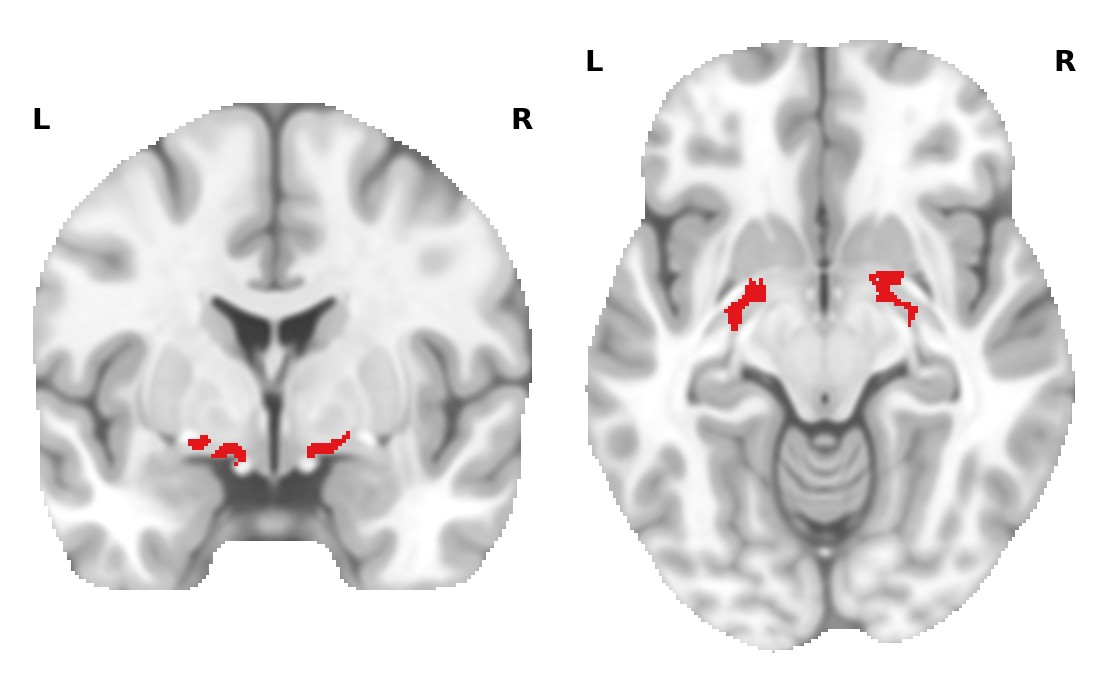
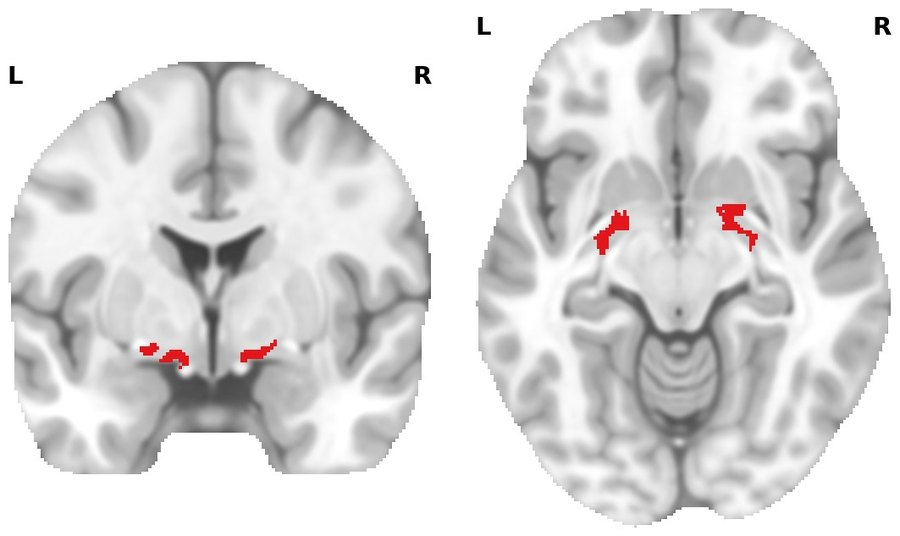
Uniform Featured Work cards; publication summary leads the section
- Every Featured Work card now has its figure on top in the same 3:2
  frame with text below and the paper link aligned at the bottom
  (EEG card no longer a special case; GNS-I stat panel fills the frame)
- Trimmed white margins on all tiles; new three-slice crop for the Ch4
  connectivity card; right-sized card versions of three figures that
  loaded at full size (lightbox still opens the full figures)
- Publications: summary lines now sit above Latest First-Author Papers;
  the legend stays directly above the grouped list

diff --git a/index.html b/index.html
@@ -790,13 +790,13 @@
         @media (max-width: 768px) { .coe-row { justify-content: center; } }
         /* ---------- Featured Work ---------- */
         .fw-grid { display: grid; grid-template-columns: repeat(2, minmax(0, 1fr)); gap: 1.25rem; }
-        .fw-item { display: grid; grid-template-columns: minmax(0, 1fr) minmax(0, 1.05fr); gap: 1rem; align-items: start;
+        .fw-item { display: flex; flex-direction: column; gap: .85rem;
             border: 1px solid var(--border-light); border-radius: 12px; padding: .85rem; background: #fff;
             transition: transform .3s var(--ease-out), box-shadow .3s ease, border-color .3s ease; }
         .fw-item:hover { transform: translateY(-3px); box-shadow: 0 12px 28px rgba(22,46,81,.12); border-color: var(--accent-light); }
         .fw-media { all: unset; box-sizing: border-box; display: block; cursor: zoom-in; border-radius: 8px; overflow: hidden; background: #fff;
-            border: 1px solid var(--border-light); aspect-ratio: 4 / 3; position: relative; }
-        .fw-media img { width: 100%; height: 100%; object-fit: contain; display: block; filter: grayscale(.35) saturate(.85); transform: scale(1);
+            border: 1px solid var(--border-light); aspect-ratio: 3 / 2; width: 100%; position: relative; }
+        .fw-media img { width: 100%; height: 100%; object-fit: contain; padding: .4rem; display: block; filter: grayscale(.35) saturate(.85); transform: scale(1);
             transition: filter .5s ease, transform .7s var(--ease-out); }
         .fw-item:hover .fw-media img, .fw-media:focus-visible img { filter: none; transform: scale(1.05); }
         .fw-media img.fw-true-color { filter: none; }
@@ -805,11 +805,11 @@
             border-radius: 50%; background: rgba(22,46,81,.85); color: #fff; font-size: .8rem; opacity: 0; transform: scale(.7); transition: all .3s var(--ease-out); }
         .fw-item:hover .fw-media::after { opacity: 1; transform: scale(1); }
         .fw-stat { cursor: default; background: radial-gradient(120% 140% at 0% 0%, #1a4480 0%, #162e51 60%, #0b1b33 100%); border-color: transparent;
-            display: flex; flex-direction: column; justify-content: center; padding: .9rem; color: #fff; }
+            display: flex; flex-direction: column; justify-content: center; align-items: center; padding: 1rem; color: #fff; }
         .fw-stat::after { display: none; }
         .fw-stat-grid { display: grid; grid-template-columns: 1fr; gap: .45rem; }
         .fw-stat-grid div { display: flex; align-items: baseline; gap: .5rem; }
-        .fw-stat-grid strong { font-size: 1.55rem; font-weight: 900; color: #fed976; font-variant-numeric: tabular-nums; line-height: 1; min-width: 4.2ch; }
+        .fw-stat-grid strong { font-size: 1.9rem; font-weight: 900; color: #fed976; font-variant-numeric: tabular-nums; line-height: 1; min-width: 4.2ch; }
         .fw-stat-grid span { font-size: .8rem; text-transform: uppercase; letter-spacing: .08em; color: #cfd8e6; font-weight: 700; }
         .fw-stat-foot { margin-top: .7rem; font-size: .68rem; color: #aebbd0; }
         .fw-item:hover .fw-stat strong { color: #fd8d3c; }
@@ -817,9 +817,10 @@
         .fw-status.is-published { background: #e7f4ea; color: #1B7837; }
         .fw-status.is-pending { background: #fff1d6; color: #9a5a00; }
         .fw-status.is-ongoing { background: #e8f0fb; color: var(--accent-dark); }
+        .fw-text { flex: 1; display: flex; flex-direction: column; }
         .fw-text h3 { font-family: var(--font-serif); font-size: .95rem; line-height: 1.35; color: var(--accent-darker); margin-bottom: .35rem; }
         .fw-text p { font-size: .8rem; line-height: 1.6; color: var(--text-secondary); }
-        .fw-ref { margin-top: .4rem; }
+        .fw-ref { margin-top: auto; padding-top: .55rem; }
         .fw-ref a { font-weight: 600; font-size: .8rem; }
         .fw-lic { font-size: .66rem; color: var(--text-muted); margin-left: .35rem; }
         .fw-lightbox { margin: auto; border: none; padding: 0; background: transparent; max-width: min(1200px, 94vw); max-height: 92vh; overflow: visible; }
@@ -831,9 +832,6 @@
         .fw-close { all: unset; position: absolute; top: -.9rem; right: -.9rem; width: 2.1rem; height: 2.1rem; border-radius: 50%; background: #fff; color: #162e51;
             display: grid; place-items: center; font-size: 1.3rem; cursor: pointer; box-shadow: 0 4px 14px rgba(0,0,0,.3); }
         .fw-close:focus-visible { outline: 2px solid var(--heat-2); }
-        .fw-item.fw-wide { grid-template-columns: 1fr; }
-        .fw-wide .fw-media { aspect-ratio: auto; }
-        .fw-wide .fw-media img { height: auto; }
         /* Latest first-author papers */
         .latest { margin: 0 0 1.75rem; padding: 1rem 1.2rem .9rem; border: 1px solid var(--border-light); border-left: 3px solid var(--accent); border-radius: 0 12px 12px 0; background: #fff; }
         .latest-head { display: flex; align-items: center; justify-content: space-between; gap: .75rem; margin-bottom: .5rem; }
@@ -864,7 +862,7 @@
             background: linear-gradient(transparent, rgba(0,0,0,.7)); }
         @media (hover: none) { .fw-media img, .conf-photo img { filter: none; } }
         @media (max-width: 900px) { .fw-grid { grid-template-columns: 1fr; } }
-        @media (max-width: 560px) { .fw-item { grid-template-columns: 1fr; } .conf-photos { grid-template-columns: 1fr; } .conf-photo img { height: 210px; } }
+        @media (max-width: 560px) { .conf-photos { grid-template-columns: 1fr; } .conf-photo img { height: 210px; } }
         @media (prefers-reduced-motion: reduce) { .fw-item:hover, .fw-lightbox[open] { transform: none; animation: none; } .fw-media img, .conf-photo img { transition: none; } }
         @media (max-width: 900px) {
             .ch4x-grid { grid-template-columns: minmax(0, 1.3fr) minmax(0, .8fr); }
@@ -918,7 +916,7 @@
             .pillar, .fw-item, .grant-entry, .pub-entry, .timeline-item, .goal, .tool-entry, .award-entry { break-inside: avoid; }
             .pillar, .fw-item { box-shadow: none !important; transform: none !important; }
             .fw-grid { gap: .6rem; }
-            .fw-item { grid-template-columns: 110px 1fr; padding: .5rem; }
+            .fw-item { display: grid; grid-template-columns: 150px 1fr; gap: .8rem; padding: .5rem; }
             .fw-media { aspect-ratio: auto; }
             .fw-text p { font-size: .72rem; }
             section { padding: .9rem 0; }
@@ -1184,9 +1182,9 @@
                         <p class="fw-lic" style="margin-left:0;">Illustration: Julich-Brain Ch4 on the MNI152 template (not a figure from the article).</p>
                     </div>
                 </article>
-                <article class="fw-item fw-wide" data-method="eeg" data-status="published">
+                <article class="fw-item" data-method="eeg" data-status="published">
                     <button type="button" class="fw-media" data-full="assets/featured/eeg_df_topomap.jpg" aria-label="Enlarge: topographic maps of dominant EEG frequency">
-                        <img class="fw-true-color" src="assets/featured/eeg_df_topomap_tile.jpg" width="720" height="286" alt="Topographic heat maps of mean dominant EEG frequency with eyes closed: mostly blue to yellow (about 6 to 7 Hz) in patients with cognitive fluctuations and red (about 8 Hz) in patients without" loading="lazy">
+                        <img class="fw-true-color" src="assets/featured/eeg_df_topomap_tile.jpg" alt="Topographic heat maps of mean dominant EEG frequency with eyes closed: mostly blue to yellow (about 6 to 7 Hz) in patients with cognitive fluctuations and red (about 8 Hz) in patients without" loading="lazy">
                     </button>
                     <div class="fw-text">
                         <span class="fw-status is-published">Published</span>
@@ -1208,7 +1206,7 @@
                 </article>
                 <article class="fw-item" data-method="subtyping" data-status="published">
                     <button type="button" class="fw-media" data-full="assets/featured/percentiles_forest.jpg" aria-label="Enlarge: hazard ratios by PD subtype">
-                        <img src="assets/featured/percentiles_forest.jpg" alt="Forest plot of adjusted hazard ratios for diffuse-malignant and intermediate versus mild motor-predominant PD" loading="lazy">
+                        <img src="assets/featured/percentiles_forest_tile.jpg" alt="Forest plot of adjusted hazard ratios for diffuse-malignant and intermediate versus mild motor-predominant PD" loading="lazy">
                     </button>
                     <div class="fw-text">
                         <span class="fw-status is-published">Published</span>
@@ -1219,7 +1217,7 @@
                 </article>
                 <article class="fw-item" data-method="subtyping" data-status="published">
                     <button type="button" class="fw-media" data-full="assets/featured/genes_subtypes.jpg" aria-label="Enlarge: genetic associations of PD subtypes">
-                        <img src="assets/featured/genes_subtypes.jpg" alt="Heatmap of gene-variant association strength across four PD subtyping schemes" loading="lazy">
+                        <img src="assets/featured/genes_subtypes_tile.jpg" alt="Heatmap of gene-variant association strength across four PD subtyping schemes" loading="lazy">
                     </button>
                     <div class="fw-text">
                         <span class="fw-status is-published">Published</span>
@@ -1230,7 +1228,7 @@
                 </article>
                 <article class="fw-item" data-method="ch4" data-status="preprint">
                     <button type="button" class="fw-media" data-full="assets/featured/ch4_gmd_fw.jpg" aria-label="Enlarge: Ch4 gray matter and free water">
-                        <img src="assets/featured/ch4_gmd_fw.jpg" alt="Raincloud plots of Ch4 and Ch1-3 gray-matter density and free-water fraction across HC, PD-NC, PD-MCI, and PDD" loading="lazy">
+                        <img src="assets/featured/ch4_gmd_fw_tile.jpg" alt="Raincloud plots of Ch4 and Ch1-3 gray-matter density and free-water fraction across HC, PD-NC, PD-MCI, and PDD" loading="lazy">
                     </button>
                     <div class="fw-text">
                         <span class="fw-status is-pending">Pending Publication</span>
@@ -1282,6 +1280,11 @@
                 <h2>Selected Publications</h2>
             </div>
 
+            <p class="pub-stats">
+                <strong>10</strong> original research articles in PD, ADRD, and neuroimaging/EEG &nbsp;&middot;&nbsp; <strong>5</strong> first-author (2025&ndash;2026)
+            </p>
+            <p style="font-size: 0.85rem; color: var(--text-secondary); line-height: 1.7; margin: -0.5rem 0 1.25rem;">170+ peer-reviewed publications in total (<span data-scholar="citations">8,955</span> citations; h-index <span data-scholar="h_index">46</span>; i10-index <span data-scholar="i10_index">109</span> on Google Scholar), including 66 systematic reviews, meta-analyses, and scoping reviews, 36 of them senior-author papers led by trainees in my research-training program. Full list on <a href="https://orcid.org/0000-0001-5363-6369" target="_blank" rel="noopener">ORCID</a> and <a href="https://scholar.google.com/citations?user=HURlCI8AAAAJ" target="_blank" rel="noopener">Google Scholar</a>.</p>
+
             <!-- Latest first-author papers: static list, refreshed from Europe PMC when available -->
             <div class="latest" id="latest">
                 <div class="latest-head">
@@ -1298,10 +1301,6 @@
                 <p class="latest-foot" id="latest-foot">New first-author papers in Parkinson's disease and dementia are added automatically from Europe PMC.</p>
             </div>
 
-            <p class="pub-stats">
-                <strong>10</strong> original research articles in PD, ADRD, and neuroimaging/EEG &nbsp;&middot;&nbsp; <strong>5</strong> first-author (2025&ndash;2026)
-            </p>
-            <p style="font-size: 0.85rem; color: var(--text-secondary); line-height: 1.7; margin: -0.5rem 0 1.25rem;">170+ peer-reviewed publications in total (<span data-scholar="citations">8,955</span> citations; h-index <span data-scholar="h_index">46</span>; i10-index <span data-scholar="i10_index">109</span> on Google Scholar), including 66 systematic reviews, meta-analyses, and scoping reviews, 36 of them senior-author papers led by trainees in my research-training program. Full list on <a href="https://orcid.org/0000-0001-5363-6369" target="_blank" rel="noopener">ORCID</a> and <a href="https://scholar.google.com/citations?user=HURlCI8AAAAJ" target="_blank" rel="noopener">Google Scholar</a>.</p>
             <p class="pub-legend"><sup>*</sup> Trainee I mentored &nbsp;&middot;&nbsp; (first) / (senior): my author position</p>
 
             <h3 class="subsection-title" style="margin-top: 0;">Cholinergic Imaging and EEG Biomarkers</h3>
